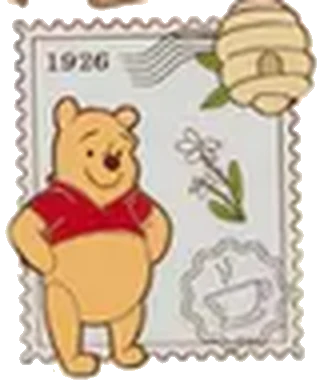
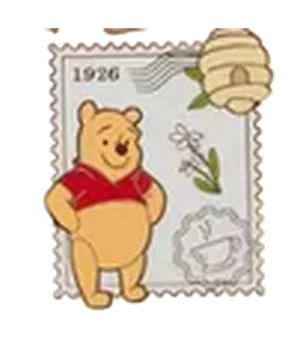
Cut the 1926 stamps to the stamp's own shape
They were placed at whatever size and proportion their crop happened to be,
so each one sat differently on the envelope and none matched the drawn or
photographic stamps beside them.

Each is now cut so its drawn frame is exactly 1/1.34 of the file, centred, in
the stamp's own 6:7 — anchored on the frame's height, because these frames are
taller than 6:7 and widening keeps all the artwork where cropping would lose
it. Drawn at 134% the frame lands precisely on the stamp box, so the footprint
is identical to every other stamp, and the 17% margin is where the animals
that lean out of their frames go.

The six frame rectangles were read off a measuring grid rather than detected.
Two rounds of automatic detection seeded on pale islands inside the animals
and returned frames of 93x79 and 12x8; six numbers read once are worth more
than a detector that is wrong twice.

diff --git a/envelope.css b/envelope.css
@@ -138,7 +138,11 @@
   filter:drop-shadow(0 .12em .26em rgba(70,50,25,.32))}
 .front .stamp--sticker .in{background:none;overflow:visible;border-radius:0}
 .front .stamp--sticker .cty,.front .stamp--sticker .val{display:none}
-.front .stamp--sticker .art--photo{width:112%;height:112%;inset:-6%}
+/* The artwork is cut so its drawn frame is 1/1.34 of the file and sits at the
+   file's centre, in the stamp's own 6:7. Drawn at 134% the frame lands exactly
+   on the stamp box — same footprint as every other stamp — and the 17% margin
+   is where the animals that lean out of their frames go. */
+.front .stamp--sticker .art--photo{width:134%;height:134%;inset:-17%}
 .front .stamp:has(.art--photo) .cty,
 .front .stamp:has(.art--photo) .val{text-shadow:0 1px 2px rgba(0,0,0,.55);z-index:1}
 .front .postmark{position:absolute;right:6.8em;top:1.6em;z-index:3}
